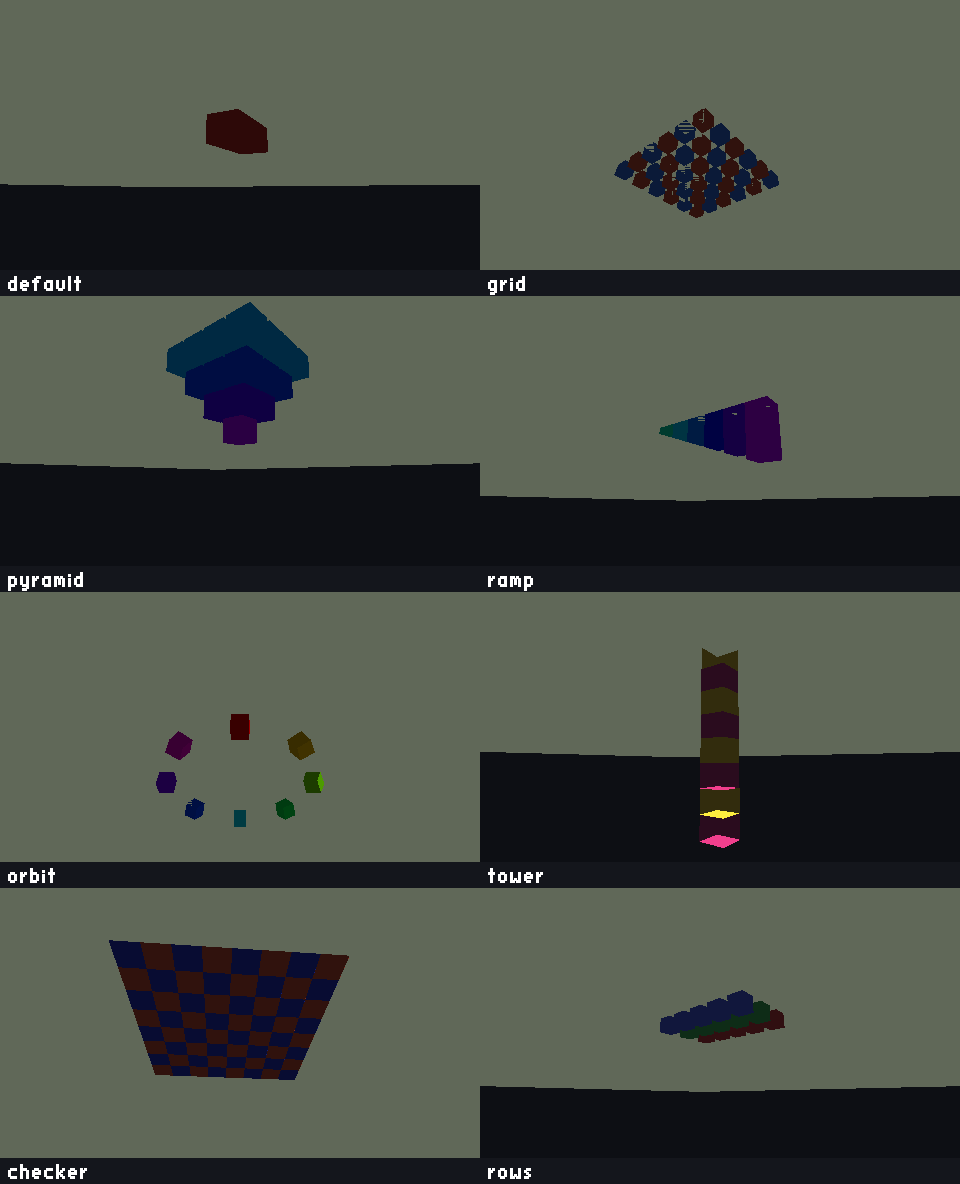
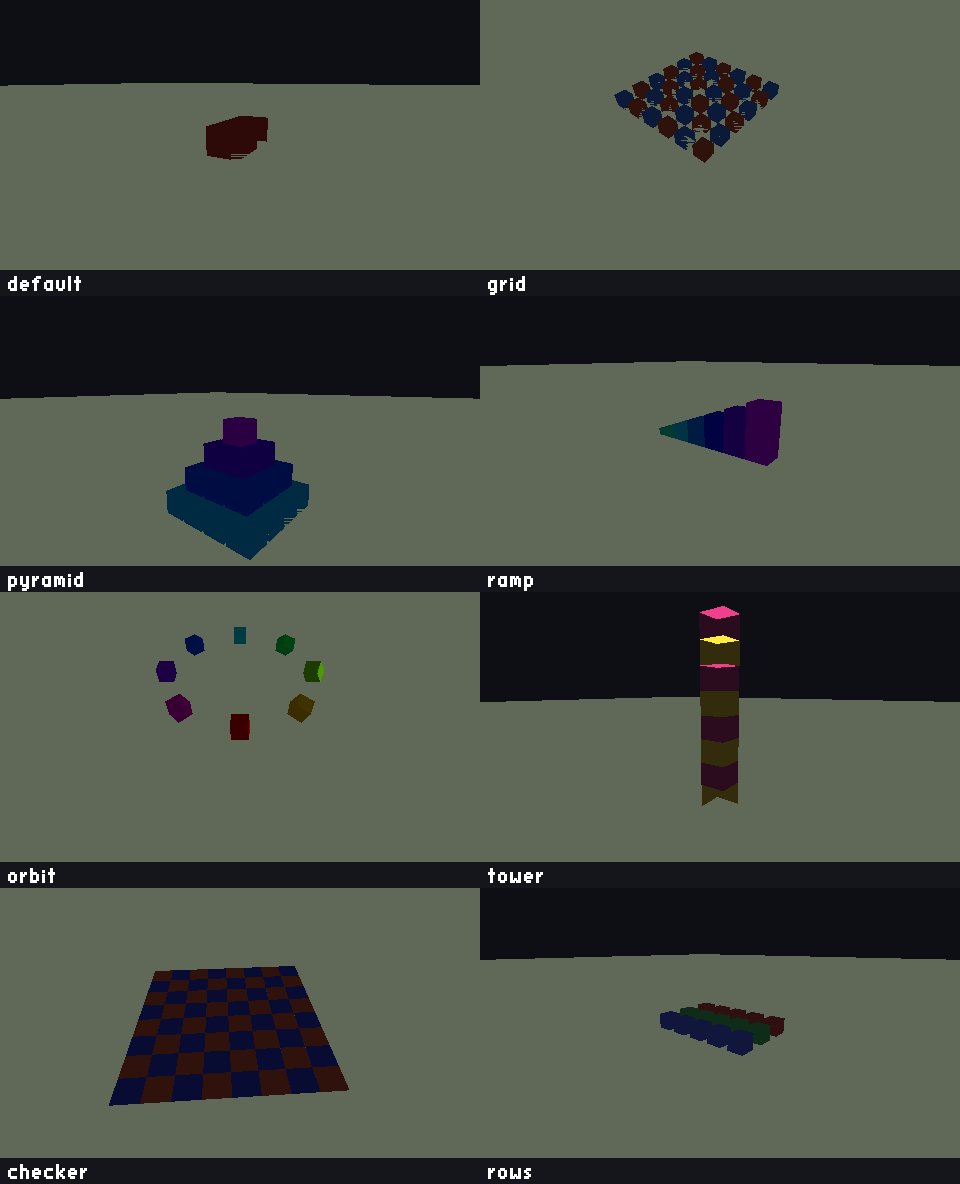
fix(rhi): render images upright with a negative-height viewport
The camera builds a right-handed projection with +Y world up, but Vulkan's NDC has +Y pointing down, so a positive-height viewport placed the horizon at the bottom of the image. Emit the Y flip exactly once, in CommandList::setViewport (negative height; render, debug draw and swapchain all share it), and compensate the front-face convention to clockwise so cull-back keeps its old meaning.

- HeadlessRunner: the CPU pixel mapping already mirrored the target orientation, so checkSemantics stays; add checkOrientationHorizon, a sky-top/ground-bottom assertion that always runs for the new 'orientation' harness scene (off-axis high/left/right boxes).
- tests/test_render_math.cpp: new CPU test pinning the absolute screen orientation (+Y world up -> smaller row, +X world right -> larger column).
- Golden workflow: verification returns exit 77 (ctest SKIPPED) while no approved reference exists; update_golden now writes candidates to screenshots/golden_candidates/ for human approval before they move to tests/golden/<driver>/. Remove tests/golden/lavapipe and regenerate candidates + contact sheet with lavapipe.
- Docs: CONVENTIONS.md, RENDERIZADO.md, README.md, AGENTS.md and tests/golden/README.md describe the single-place Y flip and the approval cycle.

diff --git a/apps/sim/src/HeadlessRunner.cpp b/apps/sim/src/HeadlessRunner.cpp
@@ -313,6 +313,33 @@ bool checkSemantics(const render::Scene& scene, const std::vector<SceneProbe>& p
     return ok;
 }
 
+// Proves the frame is not vertically flipped by sampling the centre column: with
+// the horizontal camera of the "orientation" scene the top of the image must be
+// the clear (sky) colour and the bottom must be ground. Used on top of the
+// off-axis chromaticity probes of that scene.
+bool checkOrientationHorizon(const std::vector<std::uint8_t>& pixels, rhi::Extent2D extent)
+{
+    const auto sample = [&](float relativeRow) {
+        const int x = static_cast<int>(static_cast<float>(extent.width) * 0.5f + 0.5f);
+        const int y = static_cast<int>(relativeRow * static_cast<float>(extent.height));
+        const std::size_t i = (static_cast<std::size_t>(y) * extent.width + static_cast<std::size_t>(x)) * 4;
+        return glm::vec3(pixels[i] / 255.0f, pixels[i + 1] / 255.0f, pixels[i + 2] / 255.0f);
+    };
+
+    const glm::vec3 sky(glm::vec3(kClear[0], kClear[1], kClear[2]));
+    const glm::vec3 top = sample(0.08f);
+    const glm::vec3 bottom = sample(0.92f);
+    const glm::vec3 topDiff = glm::abs(top - sky);
+    const float bottomDiff = glm::length(bottom - sky);
+
+    std::printf("[headless] orientation horizon: top=(%.3f,%.3f,%.3f) vs sky, bottom=(%.3f,%.3f,%.3f) dist %.3f %s\n", top.r, top.g,
+                top.b, bottom.r, bottom.g, bottom.b, bottomDiff, topDiff.r < 0.05f && topDiff.g < 0.05f && topDiff.b < 0.05f
+                                                                       && bottomDiff > 0.15f
+                                                                       ? "ok"
+                                                                       : "FAIL");
+    return topDiff.r < 0.05f && topDiff.g < 0.05f && topDiff.b < 0.05f && bottomDiff > 0.15f;
+}
+
 // ---- Contact sheet ---------------------------------------------------------
 
 void fillRect(std::vector<std::uint8_t>& image, int width, int height, int x0, int y0, int x1, int y1, std::uint8_t r, std::uint8_t g,
@@ -503,6 +530,10 @@ int runHeadless(const HeadlessOptions& options)
             {
                 result = 4;
             }
+            else if (options.scene == "orientation" && !checkOrientationHorizon(pixels, target.extent))
+            {
+                result = 4;
+            }
         }
 
         if (options.verifyGolden || options.updateGolden)
@@ -525,6 +556,12 @@ int runHeadless(const HeadlessOptions& options)
             }
             else if (result == 0)
             {
+                if (!std::filesystem::exists(reference))
+                {
+                    std::printf("[headless] golden %s not present (not approved yet); verification skipped\n",
+                                reference.string().c_str());
+                    return 77; // ctest maps this exit code to SKIPPED
+                }
                 double diffPercent = 0.0;
                 double psnr = 0.0;
                 if (!compareGolden(reference, pixels, target.extent, options.maxDiffPercent, options.minPsnr, diffPercent, psnr))

diff --git a/tests/test_render_math.cpp b/tests/test_render_math.cpp
@@ -54,8 +54,9 @@ TEST_CASE("a known world point projects to the expected pixel (column-major mul)
     //   ndcX = x / (d * tan(fovY/2) * aspect),   ndcY = y / (d * tan(fovY/2))
     // independent of any matrix convention, so it pins down the transform that
     // viewProjection() * p must reproduce. The pixel mapping mirrors the
-    // headless GPU semantic checks (HeadlessRunner::checkSemantics), including
-    // the screen-space +Y flip.
+    // headless GPU semantic checks (HeadlessRunner::checkSemantics) and matches
+    // the RHI viewport flip: +Y world is row 0 (top) and +X world grows the
+    // column, so this is the absolute screen orientation of the engine.
     Camera camera;
     camera.setPerspective(45.0f, aspect, 0.05f, 100.0f);
     camera.lookAt({0.0f, 0.0f, 0.0f}, {0.0f, 0.0f, -1.0f});
@@ -80,6 +81,48 @@ TEST_CASE("a known world point projects to the expected pixel (column-major mul)
     MESSAGE("known world point (1, 0.5, -2) projects to pixel (" << px << ", " << py << ")");
     CHECK(px == expectedPx);
     CHECK(py == expectedPy);
+}
+
+TEST_CASE("screen orientation is absolute: +Y world renders above, +X world renders right")
+{
+    // Pins the engine's screen orientation without a GPU: with a horizontal
+    // camera, the RHI-flipped mapping must place a higher world point on a
+    // strictly smaller row (top of the image) and a point towards +X on a
+    // strictly larger column, and anything behind the camera must stay behind.
+    constexpr int kWidth = 640;
+    constexpr int kHeight = 360;
+    const float aspect = static_cast<float>(kWidth) / static_cast<float>(kHeight);
+
+    Camera camera;
+    camera.setPerspective(60.0f, aspect, 0.1f, 100.0f);
+    camera.lookAt({0.0f, 0.6f, 0.0f}, {0.0f, 0.6f, -10.0f}); // horizontal gaze, +Y up
+
+    const auto rowCol = [&](float x, float y, float z) -> std::pair<int, int> {
+        const glm::vec4 clip = camera.viewProjection() * glm::vec4(x, y, z, 1.0f);
+        REQUIRE(clip.w > 0.0f);
+        const float ndcX = clip.x / clip.w;
+        const float ndcY = clip.y / clip.w;
+        const int px = static_cast<int>((ndcX * 0.5f + 0.5f) * static_cast<float>(kWidth));
+        const int py = static_cast<int>((1.0f - (ndcY * 0.5f + 0.5f)) * static_cast<float>(kHeight));
+        return {px, py};
+    };
+
+    // Vertical: same gaze axis, higher object must land above (smaller row).
+    const auto high = rowCol(0.0f, 3.0f, -8.0f);
+    const auto low = rowCol(0.0f, 0.4f, -8.0f);
+    CHECK(high.second < low.second);
+    CHECK(high.first == low.first); // same ray, same column
+
+    // Horizontal: objects at the same height/ray must order by +X.
+    const auto right = rowCol(2.5f, 0.6f, -8.0f);
+    const auto left = rowCol(-2.5f, 0.6f, -8.0f);
+    CHECK(right.first > left.first);
+    CHECK(right.second == left.second);
+
+    // World up really is the top half of the frame and world ahead is in front
+    // of the camera (never a negative clip.w).
+    CHECK(high.second < kHeight / 2);
+    CHECK(low.second > kHeight / 2);
 }
 
 } // namespace sim::render

diff --git a/apps/sim/src/Scenes.cpp b/apps/sim/src/Scenes.cpp
@@ -197,6 +197,24 @@ bool buildScene(const std::string& name, render::Scene& scene, const std::shared
         return true;
     }
 
+    // "orientation": test harness for the absolute screen orientation. A
+    // horizontal camera gazes down -Z while four coloured boxes are placed off
+    // the gaze axis: one clearly higher, one on each side of the reference.
+    // With the RHI viewport flip in place, +Y world must be the top of the
+    // image and +X world the right, so each box lands where its probe expects;
+    // a vertically flipped image fails the probes. The "sky top / ground
+    // bottom" horizon is checked separately by the headless runner
+    // (checkOrientationHorizon).
+    if (name == "orientation")
+    {
+        addBox(scene, cube, {0.0f, 0.9f, -8.0f}, {1.0f, 1.0f, 1.0f}, glm::vec4(0.85f, 0.35f, 0.30f, 1.0f)); // reference
+        addBox(scene, cube, {0.0f, 2.7f, -8.0f}, {1.0f, 1.0f, 1.0f}, glm::vec4(0.30f, 0.75f, 0.90f, 1.0f)); // high (above)
+        addBox(scene, cube, {-4.5f, 0.5f, -8.0f}, {1.0f, 1.0f, 1.0f}, glm::vec4(0.30f, 0.70f, 0.40f, 1.0f)); // left
+        addBox(scene, cube, {4.5f, 0.5f, -8.0f}, {1.0f, 1.0f, 1.0f}, glm::vec4(0.75f, 0.30f, 0.70f, 1.0f)); // right
+        setCamera(scene, {0.0f, 0.5f, 2.0f}, {0.0f, 0.5f, -8.0f});
+        return true;
+    }
+
     // "default" and any unknown name.
     addBox(scene, cube, {0.0f, 0.8f, 0.0f}, {1.9f, 1.6f, 4.2f}, glm::vec4(0.80f, 0.15f, 0.12f, 1.0f));
     setCamera(scene, {6.0f, 4.0f, 12.0f}, {0.0f, 0.8f, 0.0f});
@@ -234,6 +252,15 @@ std::vector<SceneProbe> sceneProbes(const std::string& name)
     if (name == "rows")
     {
         return {{glm::vec3(0.0f, 0.65f, 0.0f), glm::vec4(0.25f, 0.75f, 0.35f, 1.0f)}};
+    }
+    // The orientation harness: probes sit on off-axis boxes so a horizontally
+    // or vertically flipped image cannot be confused for an upright one.
+    if (name == "orientation")
+    {
+        return {{glm::vec3(0.0f, 0.9f, -8.0f), glm::vec4(0.85f, 0.35f, 0.30f, 1.0f)},
+                {glm::vec3(0.0f, 2.7f, -8.0f), glm::vec4(0.30f, 0.75f, 0.90f, 1.0f)},
+                {glm::vec3(-4.5f, 0.5f, -8.0f), glm::vec4(0.30f, 0.70f, 0.40f, 1.0f)},
+                {glm::vec3(4.5f, 0.5f, -8.0f), glm::vec4(0.75f, 0.30f, 0.70f, 1.0f)}};
     }
     return {{glm::vec3(0.0f, 0.8f, 0.0f), glm::vec4(0.80f, 0.15f, 0.12f, 1.0f)}};
 }

diff --git a/src/rhi/src/CommandList.cpp b/src/rhi/src/CommandList.cpp
@@ -194,11 +194,20 @@ void CommandList::bindIndexBuffer(const Buffer& buffer, bool use32Bit)
 
 void CommandList::setViewport(float x, float y, float width, float height)
 {
+    // The whole renderer (scene pass, debug draw and swapchain) goes through
+    // this one function, so the screen-space Y flip lives here and only here.
+    // Vulkan's NDC has +Y pointing down while the camera builds a right-handed
+    // projection with +Y world up, so a positive-height viewport would put the
+    // horizon at the bottom of the image. Emitting a negative height (Vulkan
+    // >= 1.1, previously VK_KHR_maintenance1) flips the Y axis so +Y world
+    // lands on row 0 of the framebuffer (the top of the image), which is what
+    // the CPU pixel mapping (HeadlessRunner::checkSemantics) mirrors. Callers
+    // keep passing a top-left origin and a positive height.
     VkViewport viewport{};
     viewport.x = x;
-    viewport.y = y;
+    viewport.y = y + height;
     viewport.width = width;
-    viewport.height = height;
+    viewport.height = -height;
     viewport.minDepth = 0.0f;
     viewport.maxDepth = 1.0f;
     vkCmdSetViewport(commandBuffer_, 0, 1, &viewport);

diff --git a/src/rhi/src/Pipeline.cpp b/src/rhi/src/Pipeline.cpp
@@ -231,7 +231,11 @@ GraphicsPipeline::GraphicsPipeline(Device& device, const GraphicsPipelineDesc& d
     rasterizer.sType = VK_STRUCTURE_TYPE_PIPELINE_RASTERIZATION_STATE_CREATE_INFO;
     rasterizer.polygonMode = VK_POLYGON_MODE_FILL;
     rasterizer.cullMode = toVkCullMode(desc.cullMode);
-    rasterizer.frontFace = VK_FRONT_FACE_COUNTER_CLOCKWISE;
+    // Winding is evaluated in framebuffer space. The RHI emits a negative-height
+    // viewport (CommandList::setViewport), which mirrors screen Y and so flips
+    // the apparent winding of every triangle; compensating with a clockwise
+    // front face keeps "cull back" meaning the same faces it meant before.
+    rasterizer.frontFace = VK_FRONT_FACE_CLOCKWISE;
     rasterizer.lineWidth = 1.0f;
 
     VkPipelineMultisampleStateCreateInfo multisampling{};

diff --git a/tests/golden/README.md b/tests/golden/README.md
@@ -1,12 +1,14 @@
 # Dorados (golden images)
 
 Referencias de regresión por **driver Vulkan**. Cada subcarpeta reúne los
-dorados generados por un driver concreto, porque la rasterización difiere
+dorados **aprobados** por un driver concreto, porque la rasterización difiere
 levemente entre ellos:
 
 - `lavapipe/` — Mesa lavapipe (CI en Linux y desarrollo local en Windows).
-- `swiftshader/` — SwiftShader (solo si se usa como ICD local; no se mantiene
-  en el repositorio salvo que alguien lo genere).
+
+No se mantienen dorados en el repositorio hasta que una persona los aprueba:
+primero se generan **candidatas** en `screenshots/golden_candidates/` y solo
+pasan a una carpeta de aquí tras la revisión humana.
 
 ## Uso
 
@@ -17,14 +19,23 @@ carpeta del driver seleccionado en configuración:
 cmake --preset windows-msvc-release -DSIM_ENABLE_GPU_TESTS=ON -DSIM_GOLDEN_DRIVER=lavapipe
 ```
 
-## Regeneración y política
+## Ciclo de aprobación
 
-- Regenerar **solo** tras un cambio intencionado (nada de maquillar regresiones):
-  `cmake --build <build> --target update_golden`.
-- En CI, la tarea `gpu-linux` genera los dorados de `lavapipe` **si faltan** y los
-  sube como artefacto `golden-lavapipe`.
-- La comparación usa tolerancias realistas (máx. 1 % de píxeles distintos,
-  PSNR ≥ 30 dB). Ver `apps/sim/src/HeadlessRunner.cpp`.
+1. **Generar candidatas** tras un cambio intencionado (nada de maquillar
+   regresiones):
+   `cmake --build <build> --target update_golden`. Las candidatas se escriben en
+   `screenshots/golden_candidates/`, nunca directamente aquí.
+2. **Revisar** las candidatas y, si se aprueban, copiarlas:
+   `tests/golden/<driver>/<escena>.png`.
+3. Mientras una referencia no está aprobada, su test GPU devuelve **77** y ctest
+   lo reporta como **SKIPPED** (ni pasa ni falla); en cuanto existe el PNG en
+   esta carpeta, pasa a verificarse normalmente.
+4. En CI, la tarea `gpu-linux` genera las candidatas si faltan y las sube como
+   artefacto `golden-candidates`; no marca ningún test como fallido por no tener
+   referencia aprobada.
+
+La comparación usa tolerancias realistas (máx. 1 % de píxeles distintos,
+PSNR ≥ 30 dB). Ver `apps/sim/src/HeadlessRunner.cpp`.
 
 Un nombre `scene_debug.png` es la variante con el overlay de debug draw
 (`--debug-draw`) de esa escena.

diff --git a/docs/RENDERIZADO.md b/docs/RENDERIZADO.md
@@ -167,16 +167,27 @@ sim --headless --frames N [--scene NAME] [--screenshot ruta.png]
 - **`--validation`**: activa las capas y **devuelve código 2** si se emitió algún
   mensaje de validación; código 1 si falla la inicialización de Vulkan.
 - **`--verify-golden` / `--update-golden`**: compara o regenera la referencia de
-  `--golden-dir` (por defecto `tests/golden/`). `--semantic` añade la
-  comprobación de píxel proyectado de cada sonda de escena.
+  `--golden-dir`. `--semantic` añade la
+  comprobación de píxel proyectado de cada sonda de escena. La verificación
+  **se omite (código 77)** si la referencia no existe aún (no aprobada);
+  `update_golden` escribe las **candidatas** en `screenshots/golden_candidates/`,
+  que solo pasan a `tests/golden/<driver>/` tras aprobación humana. Ver
+  `tests/golden/README.md`.
 - **`--debug-draw`**: superpone la rejilla de suelo y los ejes del mundo mediante
   el *debug draw* instanciado (`render::DebugDraw`); su referencia es
-  `tests/golden/grid_debug.png`.
+  `tests/golden/<driver>/grid_debug.png`.
+- **Orientación de pantalla**: toda la conversión de `+Y` mundo a pantalla vive
+  en un único sitio, el viewport de altura negativa de
+  `CommandList::setViewport` (ver `docs/CONVENTIONS.md`); las sondas
+  `checkSemantics` comunican el resultado. La escena de prueba `orientation`
+  añade una comprobación de horizonte (`checkOrientationHorizon`) que siempre se
+  ejecuta, independiente de los dorados, para que un fallo de orientación no
+  pueda pasar desapercibido.
 - El *runner* está en `apps/sim/src/HeadlessRunner.{hpp,cpp}`.
 
 Los tests `gpu` (etiqueta `ctest -L gpu`) comparan cada escena con referencias en
-`tests/golden/` (ver `docs/CONSTRUCCION.md`) y una hoja de contacto
-`screenshots/contact_sheet.png` reúne todas las escenas.
+`tests/golden/<driver>/` (ver `docs/CONSTRUCCION.md`) y una hoja de contacto
+`screenshots/contact_sheet.png` (commiteada a mano) reúne todas las escenas.
 
 ## Debug draw instanciado
 

diff --git a/docs/CONVENTIONS.md b/docs/CONVENTIONS.md
@@ -30,10 +30,14 @@ Hay una sola convención y se aplica en todo el render:
 - Estructuras de uniformes: `FrameUniforms` y `ObjectPushConstants` en
   `render/Uniforms.hpp`. El layout GPU es std140; cada miembro empieza alineado
   a 16 bytes (matriz = 4 columnas de 16 bytes contiguas).
-- La transformación CPU→píxel que comprueban los tests (incluida la inversión de
-  `+Y` al pasar a coordenadas de pantalla) está en
-  `apps/sim/src/HeadlessRunner.cpp` (`checkSemantics`) y en
-  `tests/test_render_math.cpp`.
+- La orientación de pantalla se define **una sola vez** en el RHI:
+  `CommandList::setViewport` (viewport de altura negativa), de modo
+  que `+Y` del mundo cae en la **fila 0** (arriba) de la imagen y `+X` a la
+  derecha. La transformación CPU→píxel que comprueban los tests
+  (`apps/sim/src/HeadlessRunner.cpp`, `checkSemantics`, y
+  `tests/test_render_math.cpp`) espeja exactamente esa conversión; no hay ninguna
+  otra inversión ni compensación (ni en la proyección, ni en los shaders, ni en
+  la subida de matrices).
 
 ## Profundidad (reversed-Z)
 

diff --git a/AGENTS.md b/AGENTS.md
@@ -46,9 +46,13 @@ cmake --build --preset windows-msvc-release --target sim_tests # suite
   `set VK_ICD_FILENAMES=C:\Programas\Car Simulator\tools\mesa\x64\lvp_icd.x86_64.json`
   y `tools\mesa\x64` en `PATH`; luego
   `ctest --test-dir build\windows-msvc-release -L gpu --output-on-failure`.
-- Dorados: se regeneran a mano con `cmake --build <build> --target update_golden`
-  tras cambios intencionados (nunca para maquillar una regresión). Comparación con
-  tolerancias realistas (máx. 1 % de píxeles distintos, PSNR ≥ 30 dB).
+- Dorados: las candidatas se regeneran a mano con
+  `cmake --build <build> --target update_golden` (escriben en
+  `screenshots/golden_candidates/`) tras cambios intencionados, nunca para
+  maquillar una regresión. Pasan a `tests/golden/<driver>/` solo tras aprobación
+  humana; mientras no existan, los tests GPU de verificación se reportan como
+  omitidos (`SKIP_RETURN_CODE 77`). Comparación con tolerancias realistas
+  (máx. 1 % de píxeles distintos, PSNR ≥ 30 dB).
 
 ## Git
 

diff --git a/README.md b/README.md
@@ -133,9 +133,11 @@ Modo de ejecución manual del renderer headless:
 ```
 
 El runner headless también soporta `--verify-golden`/`--update-golden`
-(con `--golden-dir`), `--semantic`, `--contact-sheet` y `--debug-draw`; los tests
-`gpu` incluyen una referencia por escena y otra del *debug draw*
-(`tests/golden/grid_debug.png`).
+(con `--golden-dir`), `--semantic`, `--contact-sheet` y `--debug-draw`. Los
+tests `gpu` incluyen una referencia por escena y otra del *debug draw*
+(`tests/golden/<driver>/grid_debug.png`); las referencias solo se activan tras
+aprobación, hasta entonces esas verificaciones se reportan como omitidas (ver
+`tests/golden/README.md`).
 
 ## Ejecución
 
